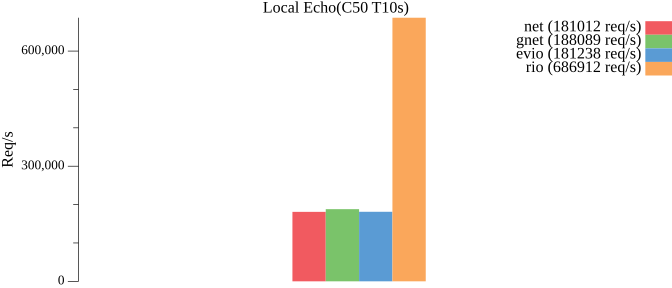
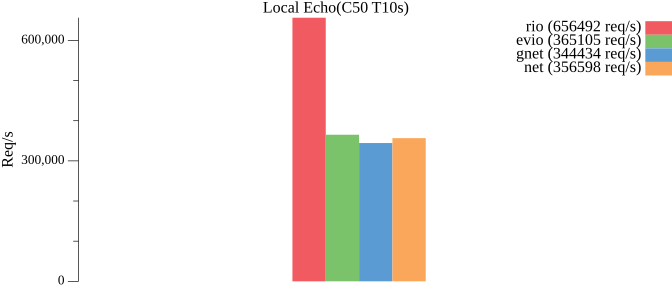
mod local

diff --git a/benchmark/local/main/main.go b/benchmark/local/main/main.go
@@ -3,7 +3,7 @@ package main
 import (
 	"fmt"
 	"github.com/brickingsoft/rio"
-	"github.com/brickingsoft/rio_examples/benchmark/local_bench_tcp"
+	"github.com/brickingsoft/rio_examples/benchmark/local"
 	"github.com/brickingsoft/rio_examples/images"
 	"github.com/panjf2000/gnet/v2"
 	"github.com/tidwall/evio"
@@ -15,33 +15,30 @@ import (
 
 func main() {
 	/* print
-	------net------
-	Total data sent: 1.7M (1810716 bytes)
-	Total data received: 1.7M (1810716 bytes)
-	sent/sec: 181012.34
-	recv/sec: 181012.34
-
-	------gnet------
-	Total data sent: 1.8M (1881508 bytes)
-	Total data received: 1.8M (1881508 bytes)
-	sent/sec: 188089.11
-	recv/sec: 188089.11
+	------rio------
+	Total data sent: 6.3M (6567420 bytes)
+	Total data received: 6.3M (6567420 bytes)
+	sent/sec: 656491.65
+	recv/sec: 656491.65
 
 	------evio------
-	Total data sent: 1.7M (1812800 bytes)
-	Total data received: 1.7M (1812800 bytes)
-	sent/sec: 181237.95
-	recv/sec: 181237.95
+	Total data sent: 3.5M (3653412 bytes)
+	Total data received: 3.5M (3653412 bytes)
+	sent/sec: 365104.66
+	recv/sec: 365104.66
 
-	------rio------
-	Total data sent: 6.6M (6870628 bytes)
-	Total data received: 6.6M (6870628 bytes)
-	sent/sec: 686911.79
-	recv/sec: 686911.79
+	------gnet------
+	Total data sent: 3.3M (3444840 bytes)
+	Total data received: 3.3M (3444840 bytes)
+	sent/sec: 344434.05
+	recv/sec: 344434.05
+
+	------net------
+	Total data sent: 3.4M (3566616 bytes)
+	Total data received: 3.4M (3566616 bytes)
+	sent/sec: 356598.42
+	recv/sec: 356598.42
 	*/
-
-	rio.Pin()
-	defer rio.Unpin()
 
 	var (
 		values = make([]float64, 0, 1)
@@ -49,16 +46,22 @@ func main() {
 		out    = "benchmark/out/bench_local.png"
 	)
 
-	srvs := []local_bench_tcp.Serve{
-		serveNet,
-		serveGnet,
-		serveEvio,
+	srvs := []local.Serve{
 		serveRIO,
+		serveEvio,
+		serveGnet,
+		serveNet,
+	}
+	dialers := []local.Dialer{
+		local.RioDialer,
+		local.NetDialer,
+		local.NetDialer,
+		local.NetDialer,
 	}
 	port := 9000
-	for _, srv := range srvs {
+	for i, srv := range srvs {
 		port++
-		rm, rmErr := local_bench_tcp.Bench(port, 50, 10*time.Second, srv)
+		rm, rmErr := local.Bench(port, 50, 10*time.Second, srv, dialers[i])
 		if rmErr != nil {
 			fmt.Println("err:", rmErr)
 			return

diff --git a/benchmark/local/bench.go b/benchmark/local/bench.go
@@ -1,16 +1,24 @@
-package local_bench_tcp
+package local
 
 import (
 	"fmt"
 	"github.com/brickingsoft/rio"
 	"io"
+	"net"
 	"sync"
 	"time"
 )
 
 type Serve func(port int) (title string, closer io.Closer, err error)
 
-func Bench(port int, count int, dur time.Duration, srvFn Serve) (met *Metric, err error) {
+type Dialer func(network string, address string) (conn net.Conn, err error)
+
+var (
+	RioDialer Dialer = rio.Dial
+	NetDialer Dialer = net.Dial
+)
+
+func Bench(port int, count int, dur time.Duration, srvFn Serve, dialer Dialer) (met *Metric, err error) {
 	title, srv, srvErr := srvFn(port)
 	if srvErr != nil {
 		return nil, srvErr
@@ -24,7 +32,7 @@ func Bench(port int, count int, dur time.Duration, srvFn Serve) (met *Metric, er
 	for i := 0; i < count; i++ {
 		go func(wg *sync.WaitGroup, port int, dur time.Duration, met *Metric) {
 			defer wg.Done()
-			conn, connErr := rio.Dial("tcp", fmt.Sprintf(":%d", port))
+			conn, connErr := dialer("tcp", fmt.Sprintf(":%d", port))
 			if connErr != nil {
 				fmt.Println("conn err:", connErr)
 				return

diff --git a/benchmark/rio_srv/main.go b/benchmark/rio_srv/main.go
@@ -45,7 +45,7 @@ func main() {
 	var multiAccept bool
 	var reusePort bool
 	flag.IntVar(&port, "port", 9000, "server port")
-	flag.IntVar(&fixedFiles, "files", 9000, "fixed files")
+	flag.IntVar(&fixedFiles, "files", 1024, "fixed files")
 	flag.BoolVar(&autoInstall, "auto", false, "auto install fixed fd")
 	flag.BoolVar(&multiAccept, "ma", false, "multi-accept")
 	flag.BoolVar(&reusePort, "reuse", false, "reuse port")

diff --git a/benchmark/local/metric.go b/benchmark/local/metric.go
@@ -1,4 +1,4 @@
-package local_bench_tcp
+package local
 
 import (
 	"bytes"
